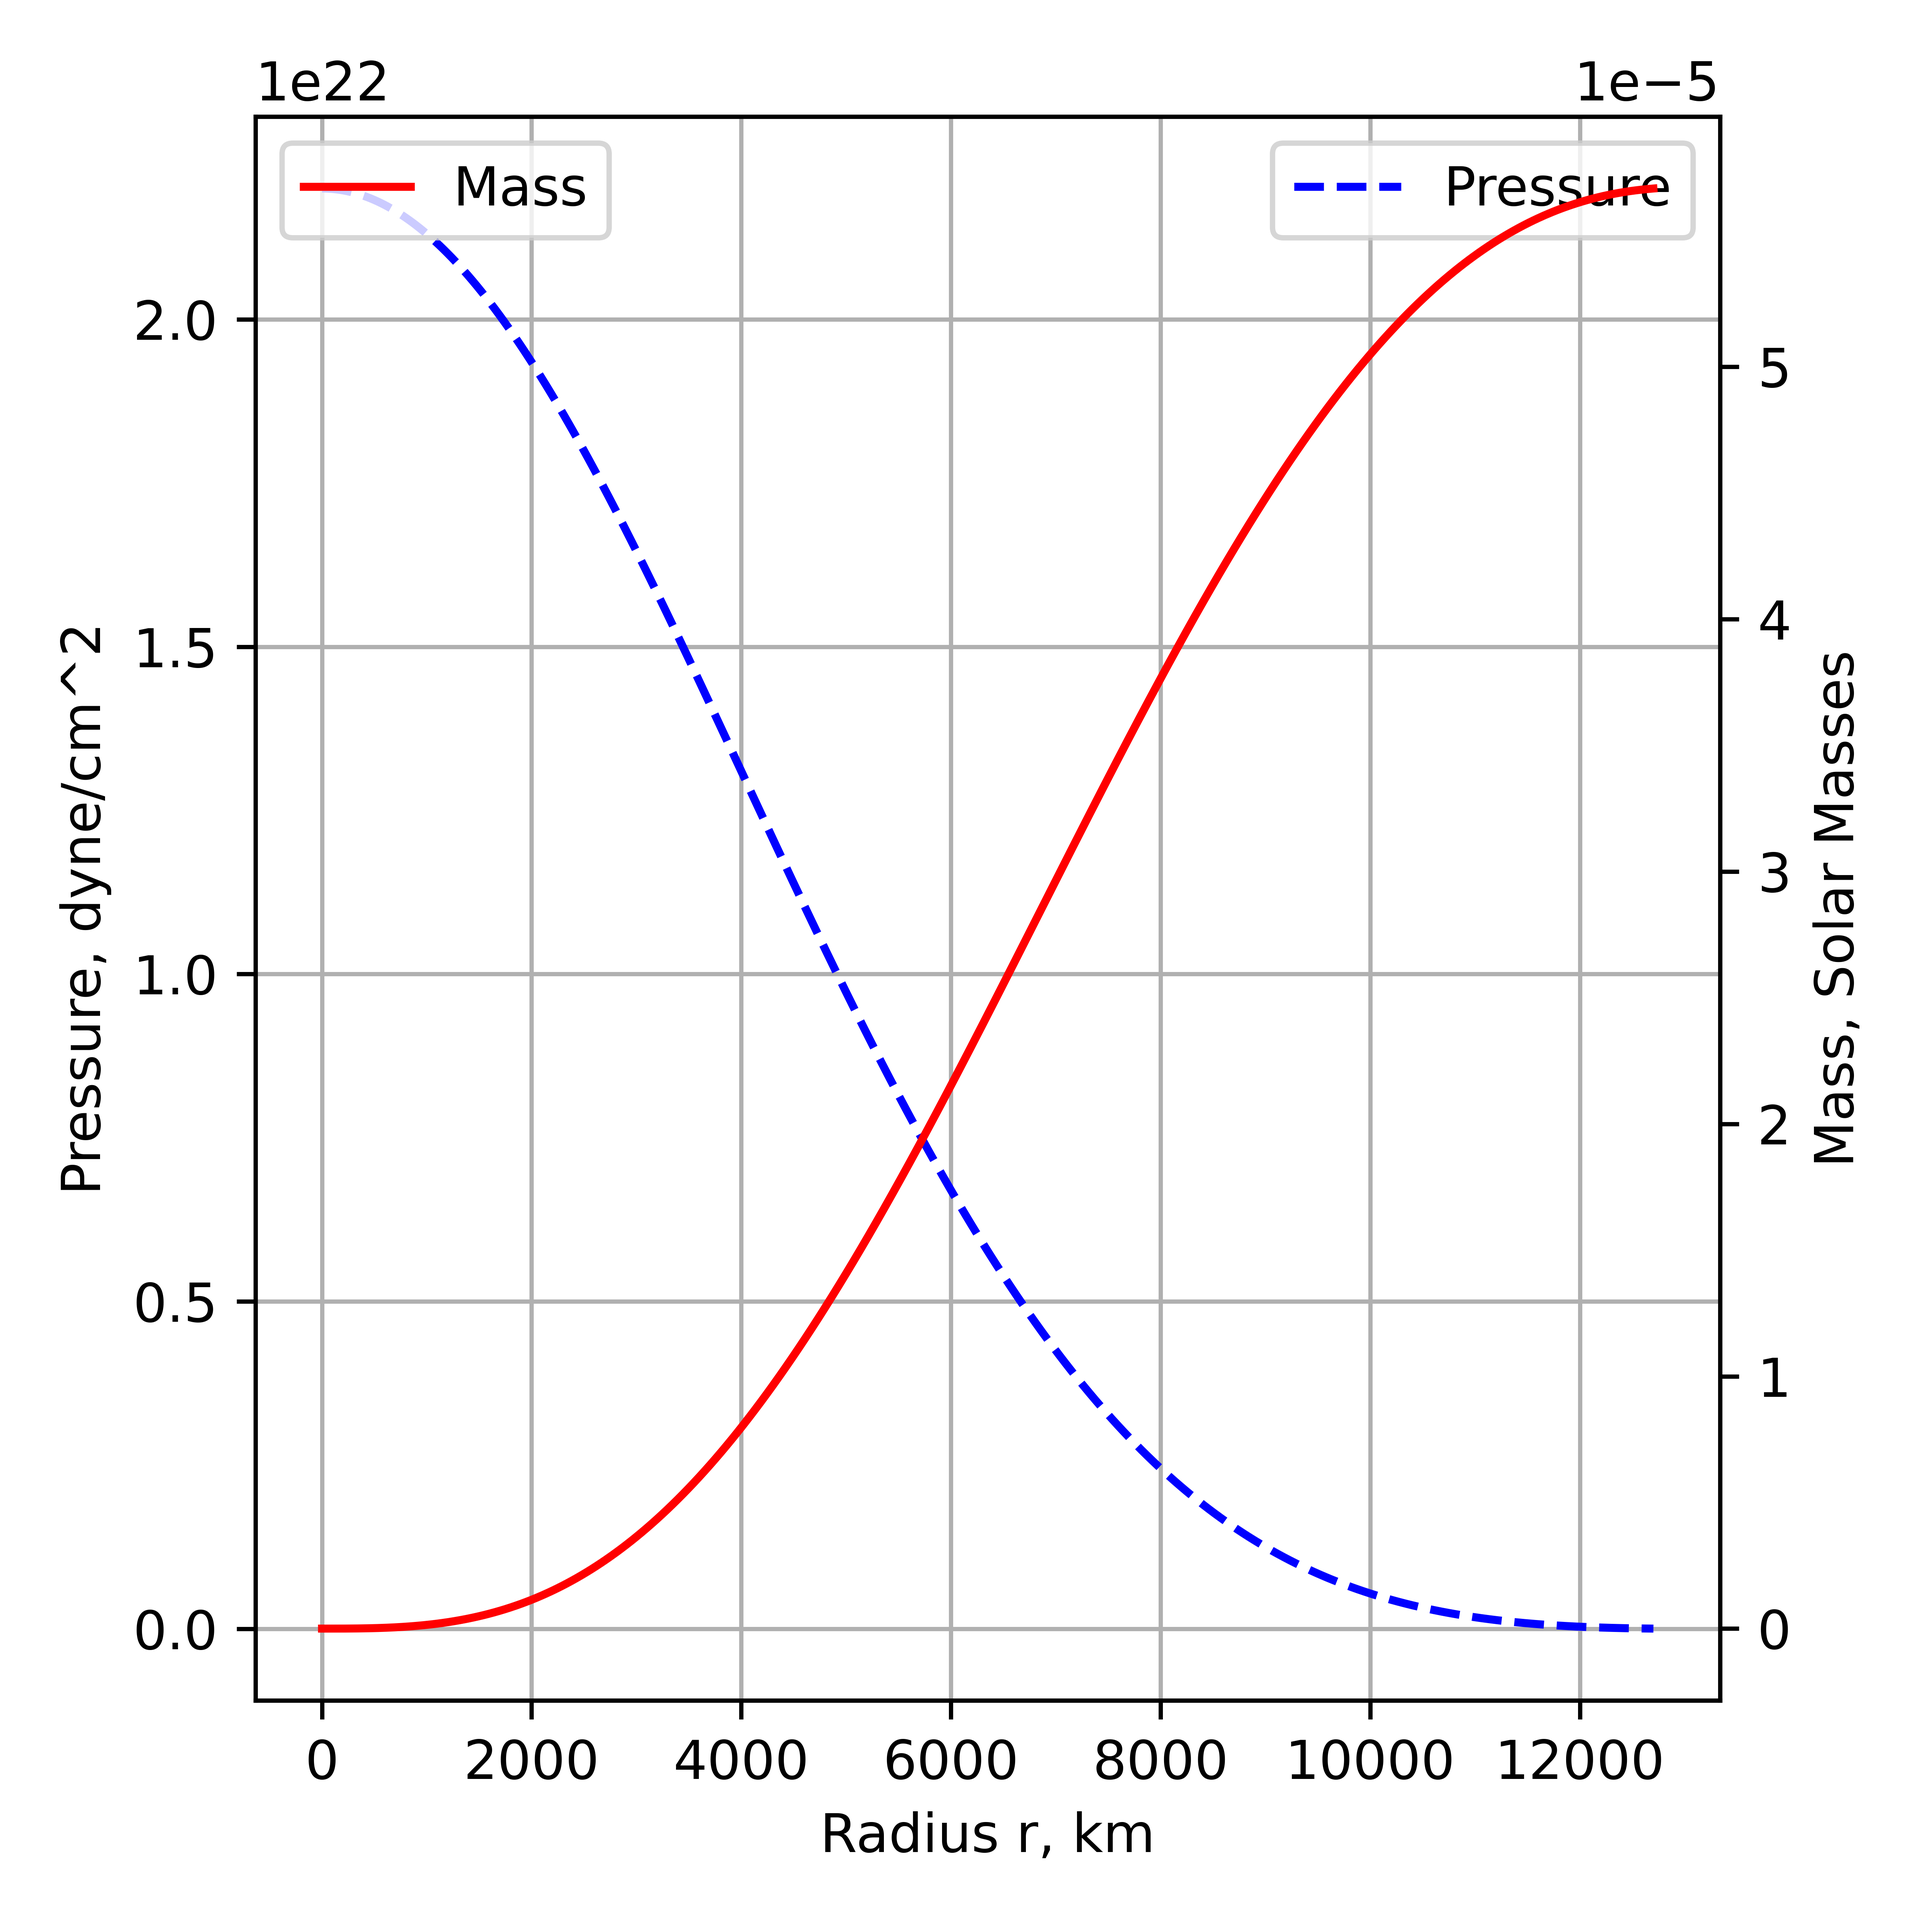
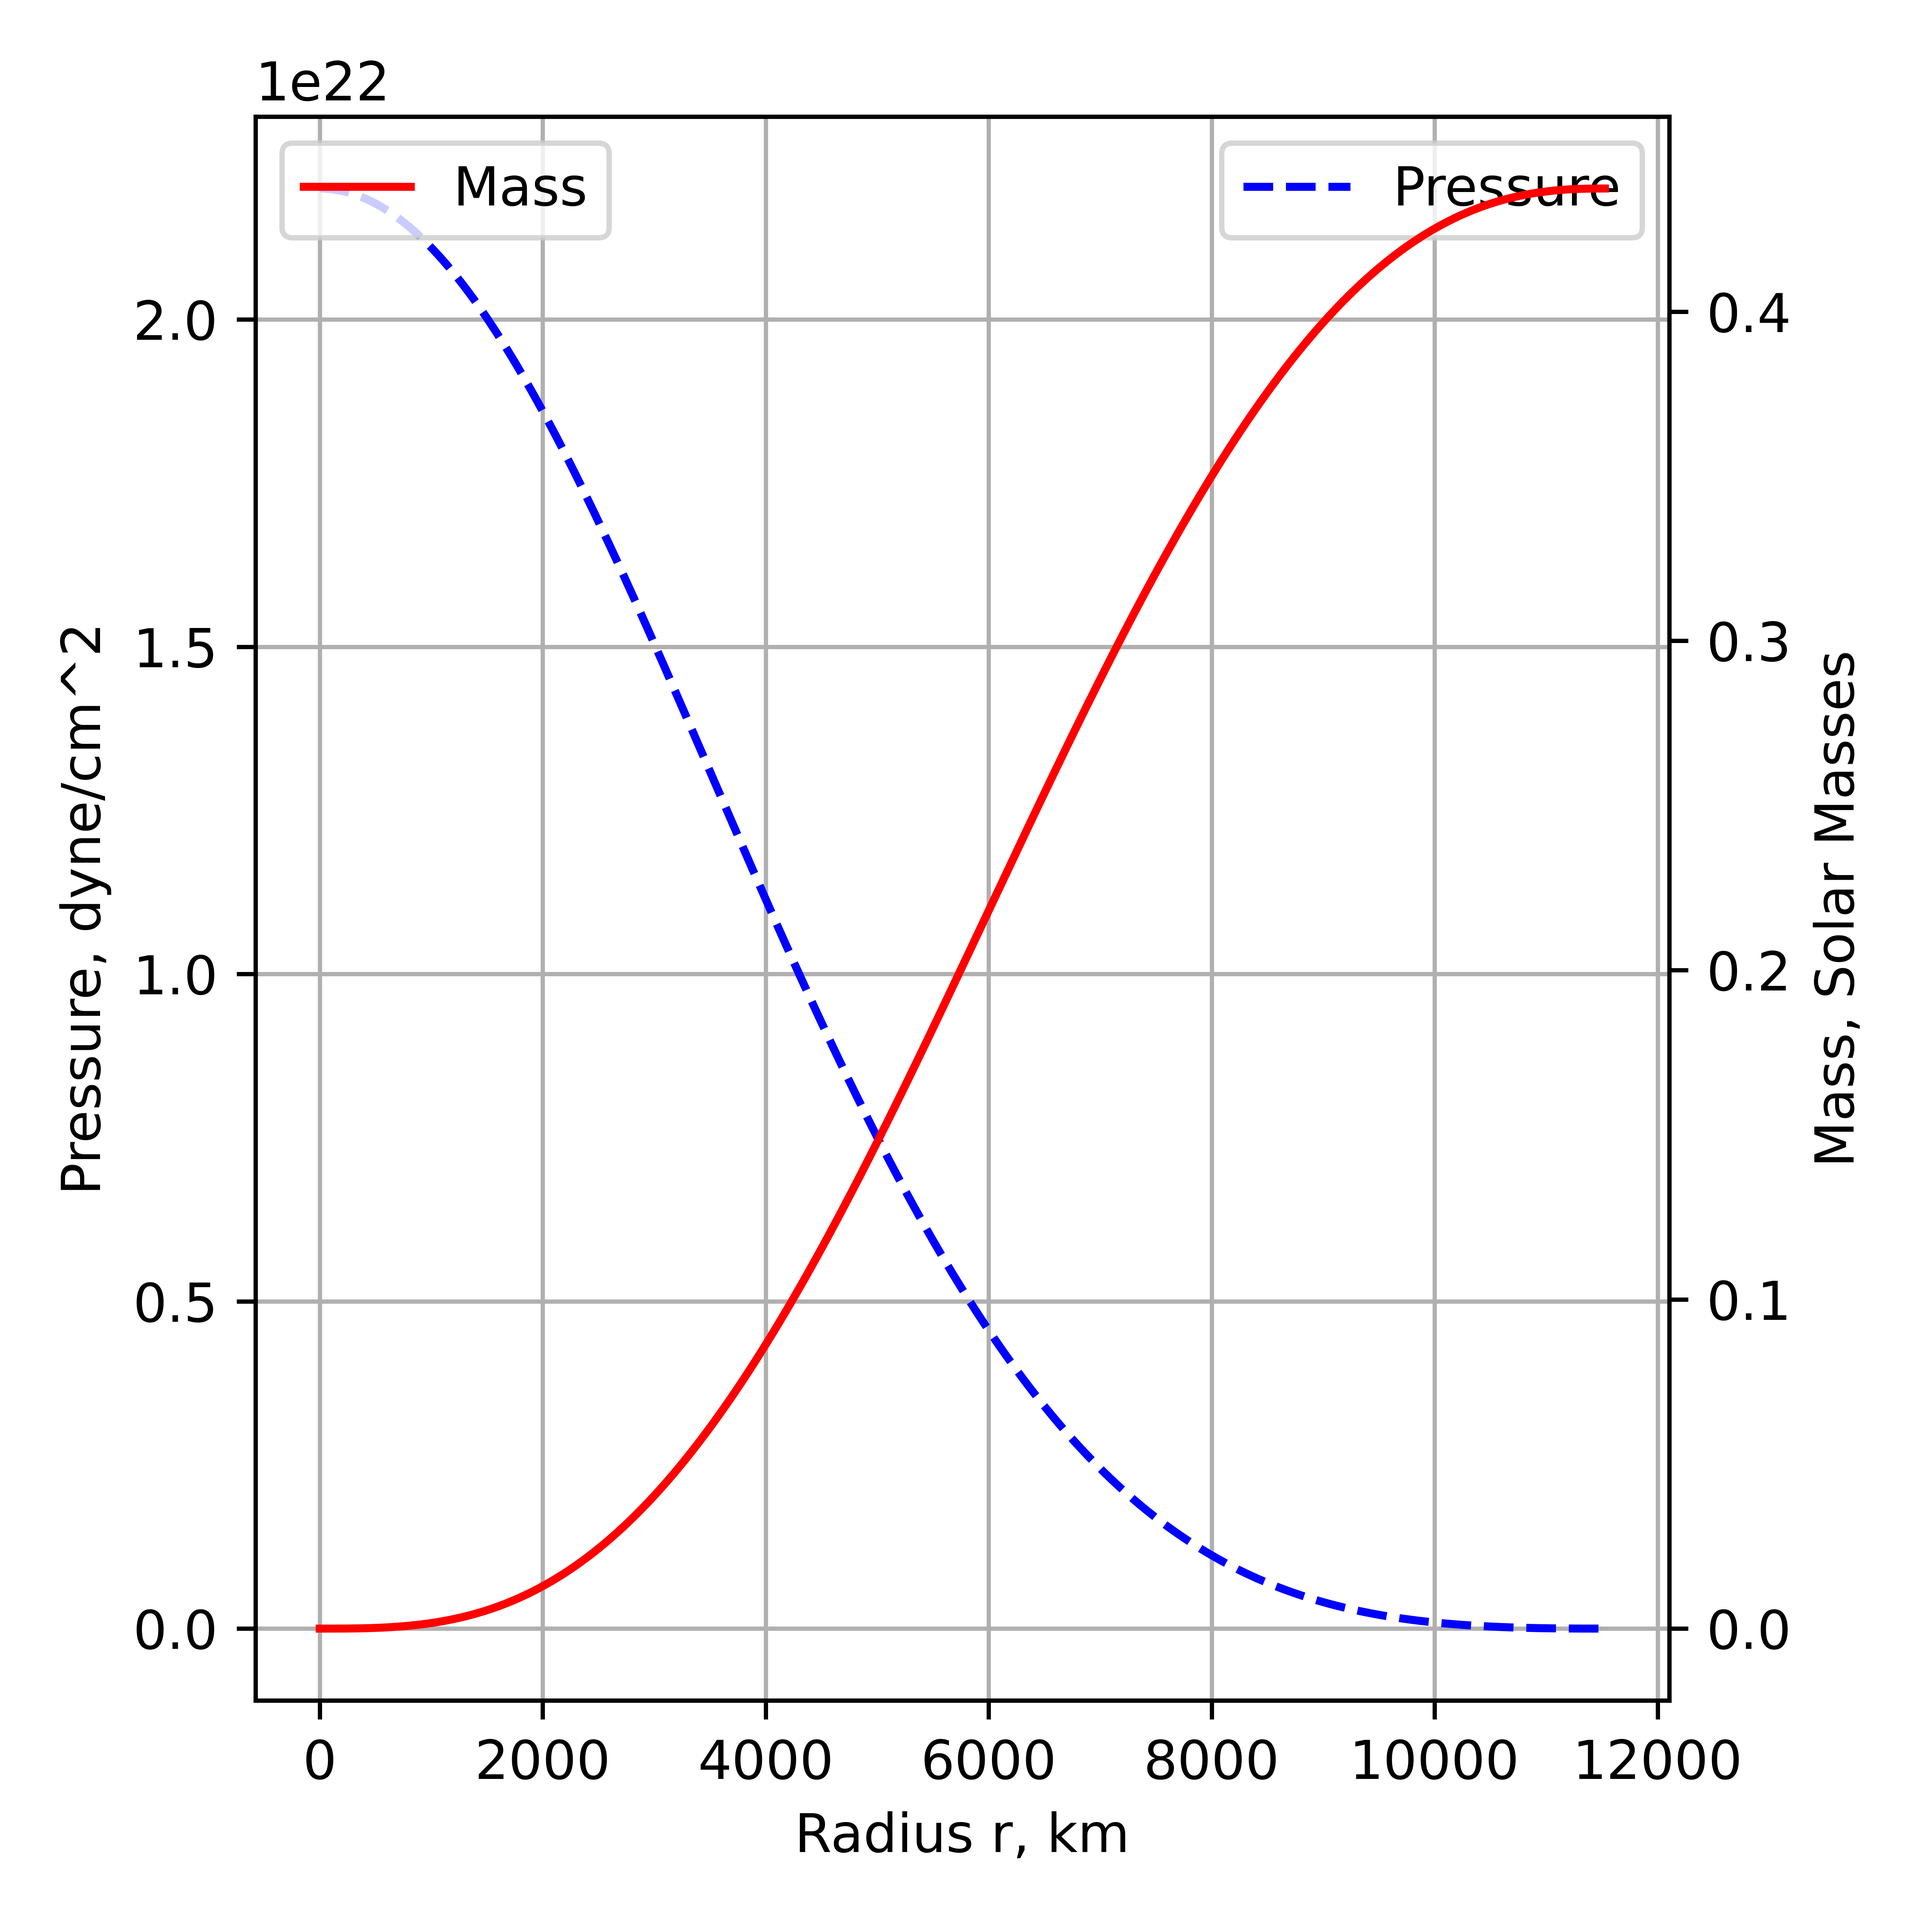
good graph

diff --git a/RK4.py b/RK4.py
@@ -19,21 +19,28 @@ import matplotlib.pyplot as plt
 # The grad function must be of form grad(time (float), state (numpy array of floats)) -> (numpy array of floats)
 
 # Initial state is [m, p] at time = 0
-r_0 = 1
-state_0 = np.array([0, 2.2e22])  # [Mass, Pressure]
+r_0 = 0.001
+state_0 = np.array([0, 2.2e22/10])  # [Mass, Pressure]
 
-c = 3e8
-M0 = 1.989e30
-R0 = (con.G*M0)/(c**2) * 0.001
 
-K = 1e-29
+M0 = 1.98847e30
+
+R0 = (con.G*M0)/(con.c**2)
+
+K = con.hbar**2/(15*np.pi**2*con.m_e) * \
+    ((3*np.pi**2)/(2*con.m_n*con.c**2))**(5/3)
+
 GAMMA = 5/3
 
 
 def main():
-    radii, states = rk4(grad, r_0, state_0, 1, 12_700)
+    radii, states = rk4(grad, r_0, state_0, 1000, 13000)
     if plot(radii, states) == 0:
         print("Success")
+        d = np.where(states[:, 1] == min(states[:, 1]))
+        index = d[0][0]
+        print('White dwarf radius is', radii[index]/1000, 'km.')
+        print('White dwarf mass is', states[index, 0])
     else:
         print("Failure")
 
@@ -88,10 +95,10 @@ def rk4_step_till(grad, time, state, step_size, final_time):
 
 def grad(radius, state):
     m, p = state
-    dm_dr = ((4 * np.pi * np.power(radius, 2)) /
-             (M0*c**2)) * np.power((p/K), 1/GAMMA)
-    dp_dr = -1 * (R0/(np.power(radius, 2))) * \
-        (p/K)**(1/GAMMA) * m
+    dm_dr = ((4 * np.pi * np.power((radius), 2) *
+             np.power((p/K), 1/GAMMA))/(M0*(con.c)**2))
+    dp_dr = -1 * (R0*m/(np.power((radius), 2))) * \
+        np.power((p/K), (1/GAMMA))
 
     return np.array([dm_dr, dp_dr])  # gradient array
 
@@ -105,8 +112,8 @@ def plot(radii, states):
     ax1.set(xlabel="Radius r, km")
     ax2.set(ylabel="Mass, Solar Masses")
     ax1.set(ylabel="Pressure, dyne/cm^2")
-    ax2.plot(radii, states[:, 0], color="red", label="Mass")
-    ax1.plot(radii, states[:, 1], linestyle="--",
+    ax2.plot(radii/1000, states[:, 0], color="red", label="Mass")
+    ax1.plot(radii/1000, states[:, 1]*10, linestyle="--",
              color="blue", label="Pressure")
     ax1.legend()
     ax2.legend()
